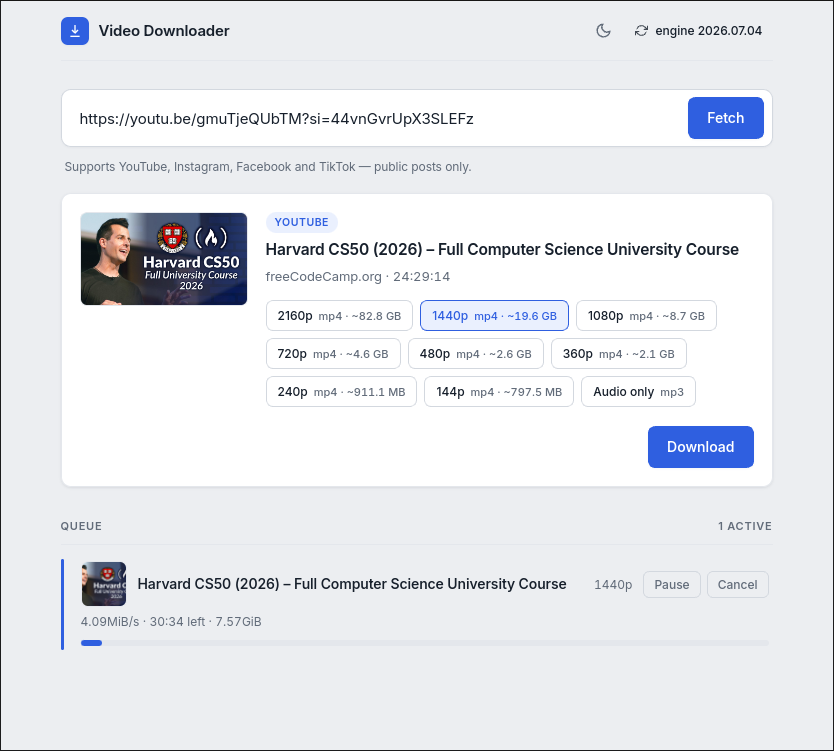
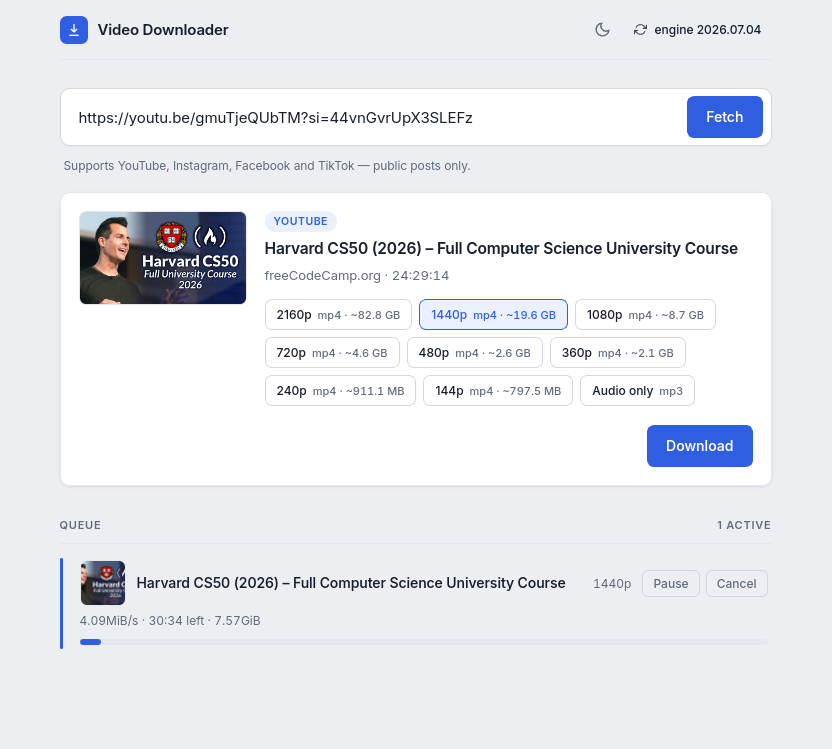
fix(website): crop baked-in border off the light screenshot
The light-mode capture had a 1px dark window outline baked into the PNG, which
read as a black rectangle around the image inside the site's own frame. Crop it
(834x751 -> 832x749) so the edges meet the frame cleanly. The dark capture had
no such border and is unchanged.

diff --git a/website/index.html b/website/index.html
@@ -273,8 +273,8 @@
             <img
               src="assets/screenshot-light.png"
               alt="Video Downloader showing a queued download of a Harvard CS50 course at 1440p, with a full list of resolutions and their file sizes"
-              width="834"
-              height="751"
+              width="832"
+              height="749"
               class="w-full dark:hidden"
             />
             <img
